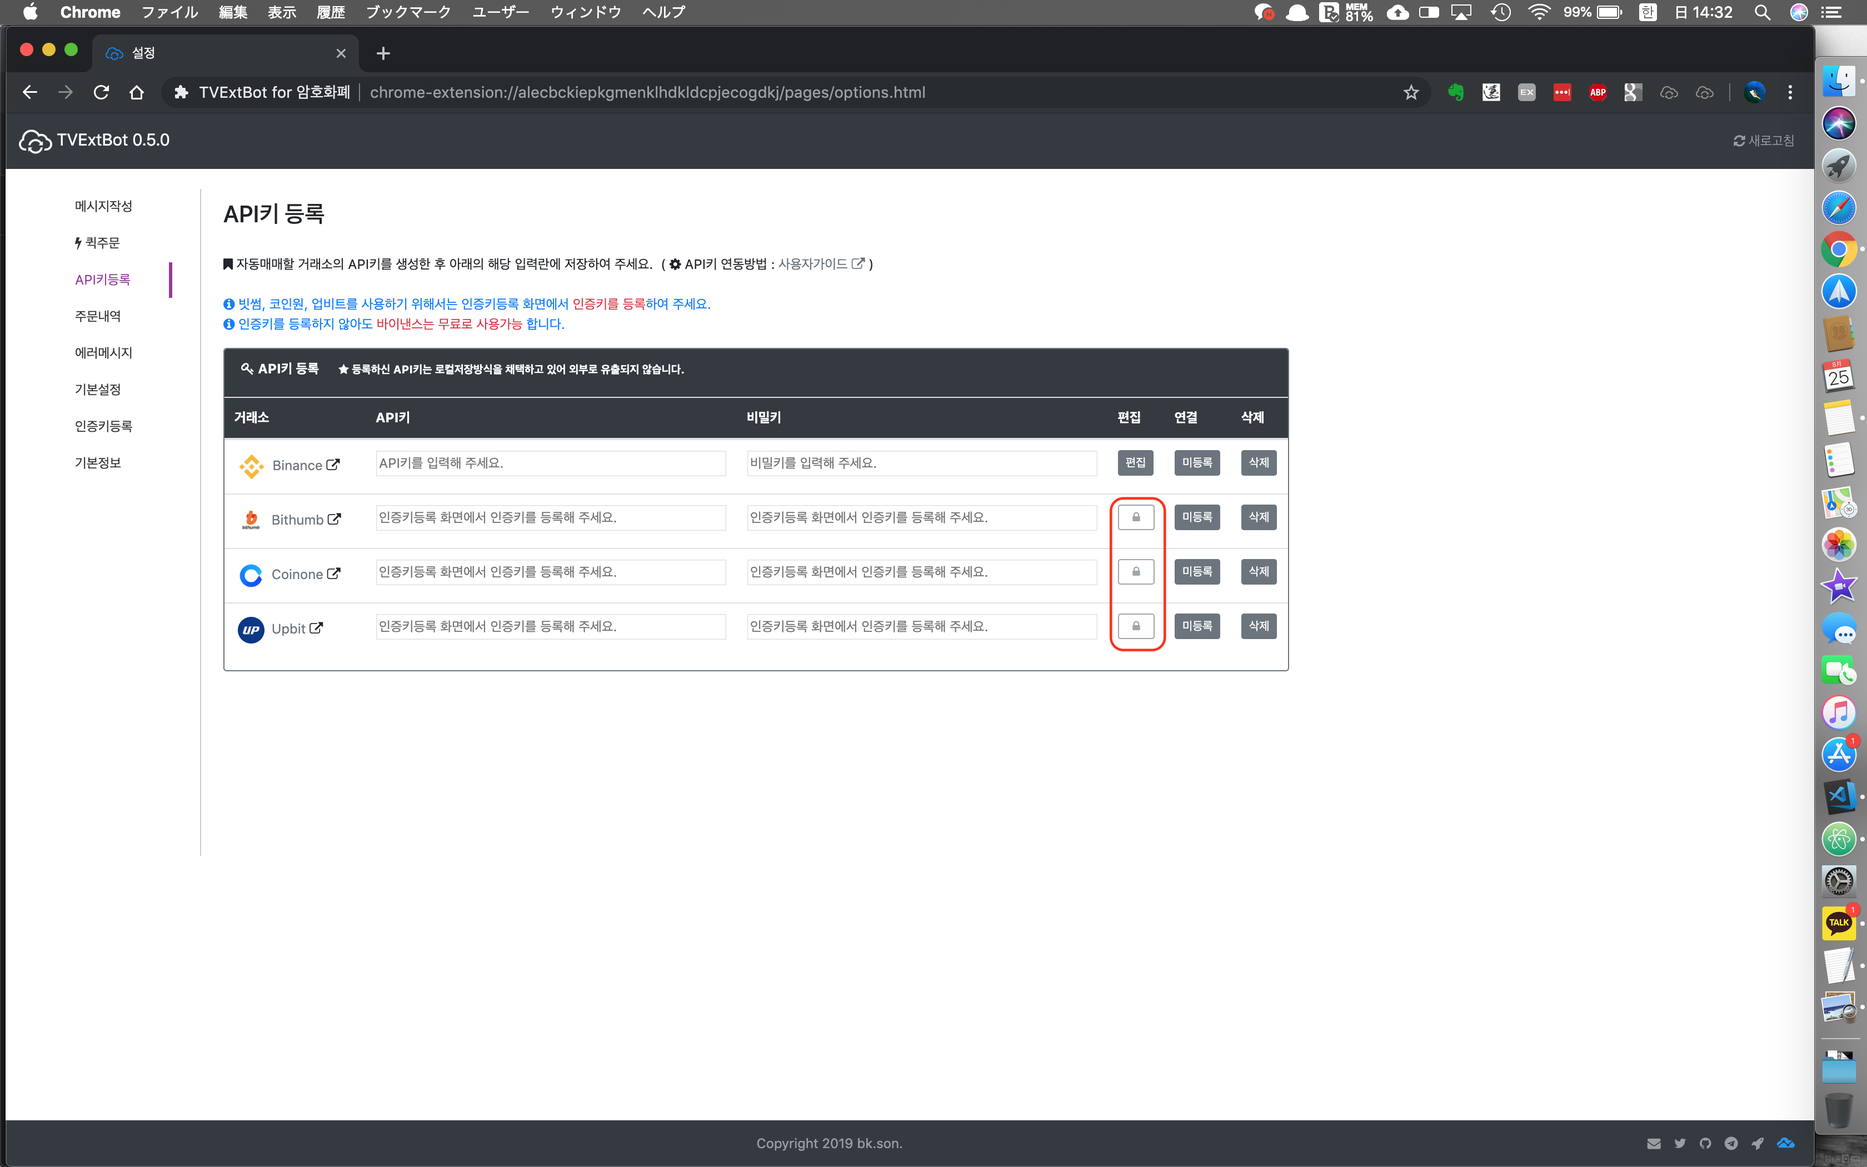
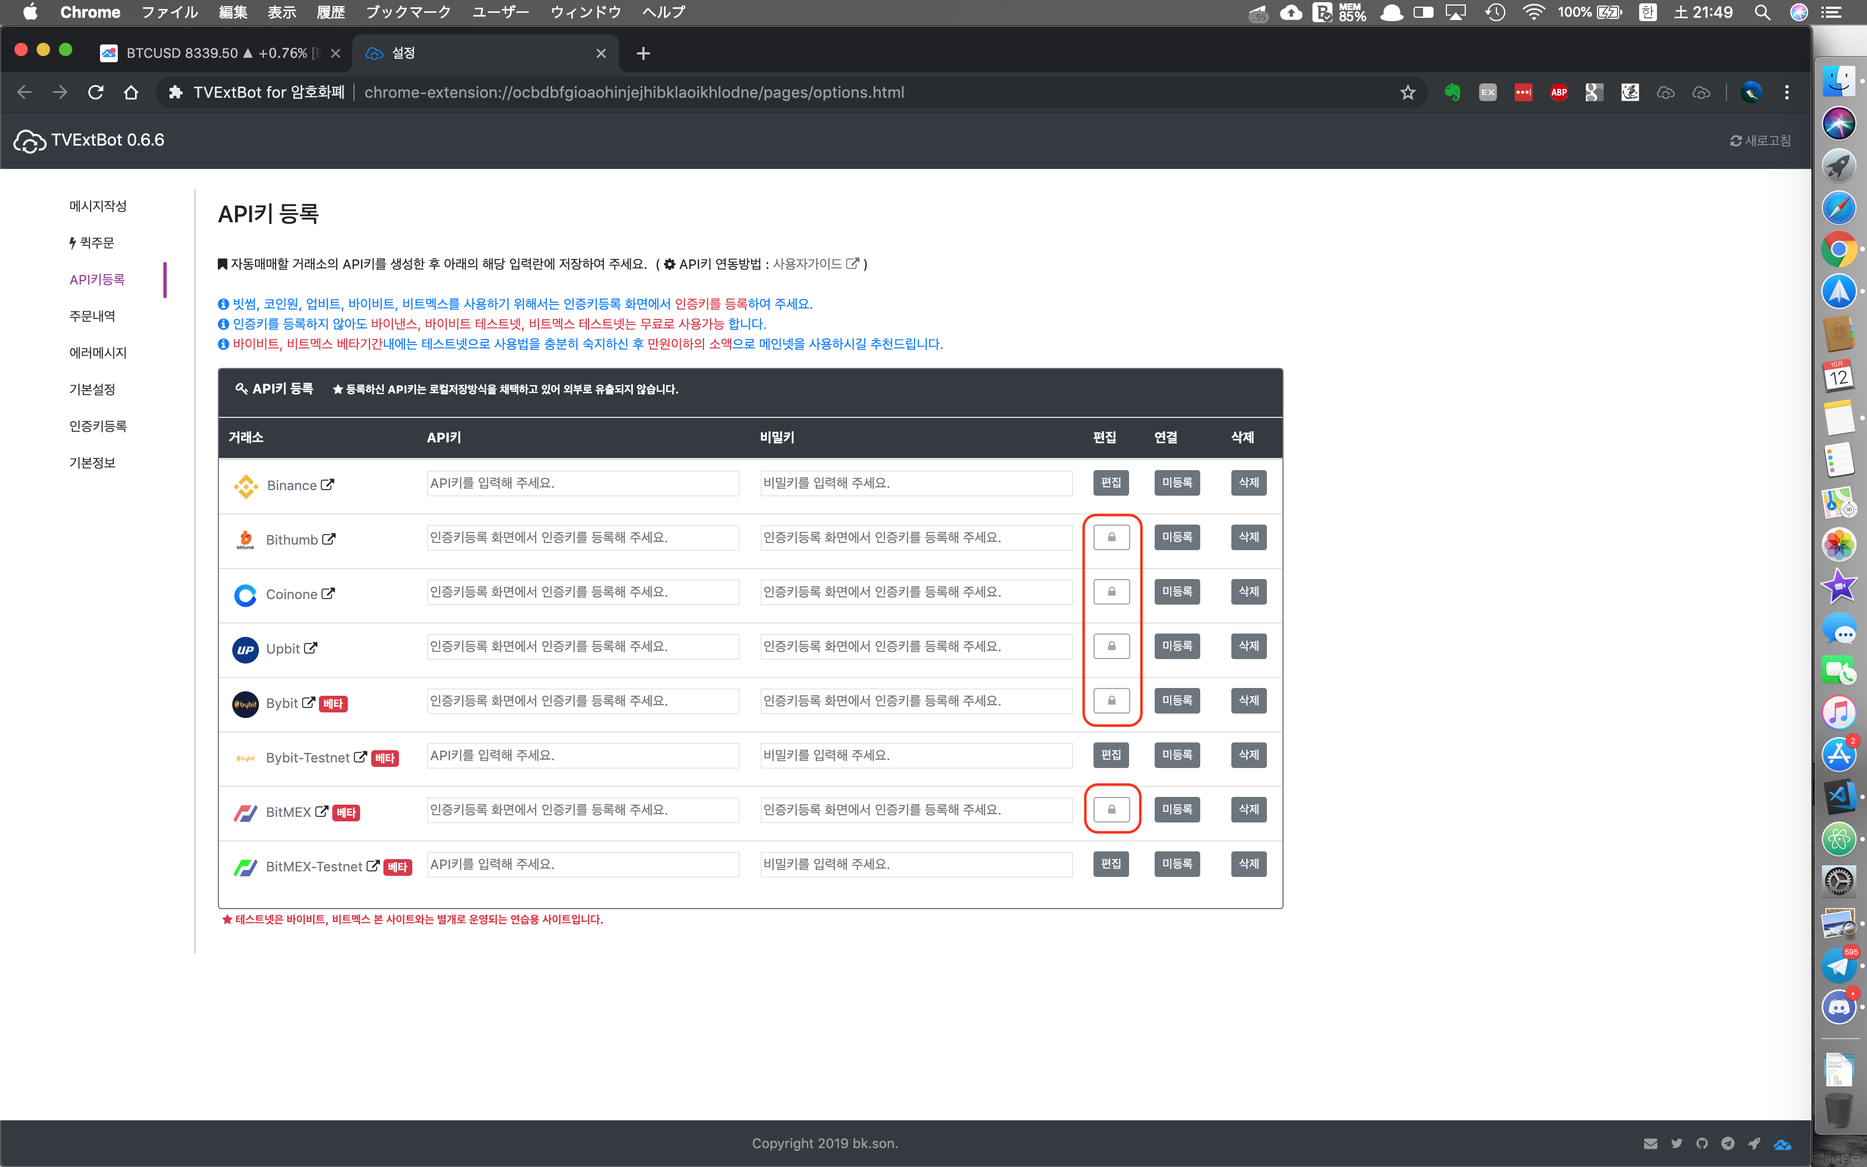
rebuilding site 2019年 10月12日 土曜日 22時46分11秒 JST

diff --git a/post/authguide/index.html b/post/authguide/index.html
@@ -10,12 +10,15 @@
   <title>인증키 등록&amp;구매가이드 - TVExtBot</title>
   <meta property="og:title" content="인증키 등록&amp;구매가이드" />
   <meta name="twitter:title" content="인증키 등록&amp;구매가이드" />
-  <meta name="description" content="TVExtBot가 9월1일부터 유료버젼으로 전환됩니다.
-바이낸스는 계속해서 무료로 사용가능하지만 그외 빗썸, 코인원, 업비트는 인증키를 등록하셔야지만 사용가능합니다.">
-  <meta property="og:description" content="TVExtBot가 9월1일부터 유료버젼으로 전환됩니다.
-바이낸스는 계속해서 무료로 사용가능하지만 그외 빗썸, 코인원, 업비트는 인증키를 등록하셔야지만 사용가능합니다.">
-  <meta name="twitter:description" content="TVExtBot가 9월1일부터 유료버젼으로 전환됩니다.
-바이낸스는 계속해서 무료로 사용가능하지만 그외 빗썸, 코인원, 업비트는 인증키를 등록하셔야지만 사용가능합니다.">
+  <meta name="description" content=" 빗썸, 코인원, 업비트, 바이비트, 비트멕스를 사용하기 위해서는 인증키등록 화면에서 인증키를 등록하여 주세요.
+ 인증키를 등록하지 않아도 바이낸스, 바이비트 테스트넷, 비트멕스 테스트넷는 무료로 사용가능 합니다.
+ 바이비트, 비트멕스 베타기간내에는 테스트넷으로 사용법을 충분히 숙지하신 후 소액으로 메인넷을 사용하시길 추천드립니다.">
+  <meta property="og:description" content=" 빗썸, 코인원, 업비트, 바이비트, 비트멕스를 사용하기 위해서는 인증키등록 화면에서 인증키를 등록하여 주세요.
+ 인증키를 등록하지 않아도 바이낸스, 바이비트 테스트넷, 비트멕스 테스트넷는 무료로 사용가능 합니다.
+ 바이비트, 비트멕스 베타기간내에는 테스트넷으로 사용법을 충분히 숙지하신 후 소액으로 메인넷을 사용하시길 추천드립니다.">
+  <meta name="twitter:description" content=" 빗썸, 코인원, 업비트, 바이비트, 비트멕스를 사용하기 위해서는 인증키등록 화면에서 인증키를 등록하여 주세요.
+ 인증키를 등록하지 않아도 바이낸스, 바이비트 테스트넷, 비트멕스 테스트넷는 무료로 사용가능 합니다.
+ 바이비트, 비트멕스 베타기간내에는 테스트넷으로 사용법을 충분히 숙지하신 후 소액으로 메인넷을 사용하시길 추천드립니다.">
   <meta name="author" content="bk.son"/><script type="application/ld+json">
 {
     "@context": "http://schema.org",
@@ -64,9 +67,9 @@
     "name" : "bk.son"
   },
   "headline": "인증키 등록\x26구매가이드",
-  "description" : "TVExtBot가 9월1일부터 유료버젼으로 전환됩니다.\n바이낸스는 계속해서 무료로 사용가능하지만 그외 빗썸, 코인원, 업비트는 인증키를 등록하셔야지만 사용가능합니다.\n",
+  "description" : " 빗썸, 코인원, 업비트, 바이비트, 비트멕스를 사용하기 위해서는 인증키등록 화면에서 인증키를 등록하여 주세요.\n 인증키를 등록하지 않아도 바이낸스, 바이비트 테스트넷, 비트멕스 테스트넷는 무료로 사용가능 합니다.\n 바이비트, 비트멕스 베타기간내에는 테스트넷으로 사용법을 충분히 숙지하신 후 소액으로 메인넷을 사용하시길 추천드립니다.\n",
   "inLanguage" : "ko",
-  "wordCount":  174 ,
+  "wordCount":  183 ,
   "datePublished" : "2019-08-25T14:02:56",
   "dateModified" : "2019-08-25T14:02:56",
   "image" : "https:\/\/tvextbot.github.io\/img\/avatar-icon.png",
@@ -86,15 +89,17 @@
 </script>
 
 <meta property="og:title" content="인증키 등록&amp;구매가이드" />
-<meta property="og:description" content="TVExtBot가 9월1일부터 유료버젼으로 전환됩니다.
-바이낸스는 계속해서 무료로 사용가능하지만 그외 빗썸, 코인원, 업비트는 인증키를 등록하셔야지만 사용가능합니다.">
+<meta property="og:description" content=" 빗썸, 코인원, 업비트, 바이비트, 비트멕스를 사용하기 위해서는 인증키등록 화면에서 인증키를 등록하여 주세요.
+ 인증키를 등록하지 않아도 바이낸스, 바이비트 테스트넷, 비트멕스 테스트넷는 무료로 사용가능 합니다.
+ 바이비트, 비트멕스 베타기간내에는 테스트넷으로 사용법을 충분히 숙지하신 후 소액으로 메인넷을 사용하시길 추천드립니다.">
 <meta property="og:image" content="https://tvextbot.github.io/img/avatar-icon.png" />
 <meta property="og:url" content="https://tvextbot.github.io/post/authguide/" />
 <meta property="og:type" content="website" />
 <meta property="og:site_name" content="TVExtBot" />
   <meta name="twitter:title" content="인증키 등록&amp;구매가이드" />
-  <meta name="twitter:description" content="TVExtBot가 9월1일부터 유료버젼으로 전환됩니다.
-바이낸스는 계속해서 무료로 사용가능하지만 그외 빗썸, 코인원, 업비트는 인증키를 등록하셔야지만 사용가능합니다.">
+  <meta name="twitter:description" content=" 빗썸, 코인원, 업비트, 바이비트, 비트멕스를 사용하기 위해서는 인증키등록 화면에서 인증키를 등록하여 주세요.
+ 인증키를 등록하지 않아도 바이낸스, 바이비트 테스트넷, 비트멕스 테스트넷는 무료로 사용가능 합니다.
+ 바이비트, 비트멕스 베타기간내에는 테스트넷으로 사용법을 충분히 숙지하신 후 소액으로 메인넷을 사용하시길 추천드립니다.">
   <meta name="twitter:image" content="https://tvextbot.github.io/img/avatar-icon.png" />
   <meta name="twitter:card" content="summary" />
   <meta name="twitter:site" content="@tvextbot" />
@@ -315,8 +320,9 @@ if (!doNotTrack) {
   <div class="row">
     <div class="col-lg-8 col-lg-offset-2 col-md-10 col-md-offset-1">
       <article role="main" class="blog-post">
-        <p><span class="text-danger h5">TVExtBot가 9월1일부터 유료버젼으로 전환됩니다.<br>
-바이낸스는 계속해서 무료로 사용가능하지만 그외 빗썸, 코인원, 업비트는 인증키를 등록하셔야지만 사용가능합니다.</span><br></p>
+        <p><span class="text-info"><i class="fa fa-info-circle"></i> 빗썸, 코인원, 업비트, 바이비트, 비트멕스를 사용하기 위해서는 인증키등록 화면에서 인증키를 등록하여 주세요.</span><br>
+<span class="text-info"><i class="fa fa-info-circle"></i> 인증키를 등록하지 않아도 바이낸스, 바이비트 테스트넷, 비트멕스 테스트넷는 무료로 사용가능 합니다.</span><br>
+<span class="text-info"><i class="fa fa-info-circle"></i> 바이비트, 비트멕스 베타기간내에는 테스트넷으로 사용법을 충분히 숙지하신 후 소액으로 메인넷을 사용하시길 추천드립니다.</span><br></p>
 
 <p>아래의 내용은 인증키를 구매하기 위한 송금방법에 대한 설명입니다.<br></p>
 
@@ -324,9 +330,9 @@ if (!doNotTrack) {
 
 
 <figure  itemprop="associatedMedia" itemscope itemtype="http://schema.org/ImageObject">
-    <a href="/img/num01.png"  itemprop="contentUrl"> 
+    <a href="/img/num1.png"  itemprop="contentUrl"> 
         <img itemprop="thumbnail"
-            src="/img/num01.png"
+            src="/img/num1.png"
             
             />
     </a>
@@ -339,16 +345,15 @@ if (!doNotTrack) {
 
 
 <figure  itemprop="associatedMedia" itemscope itemtype="http://schema.org/ImageObject">
-    <a href="/img/num02.png"  itemprop="contentUrl"> 
+    <a href="/img/num2.png"  itemprop="contentUrl"> 
         <img itemprop="thumbnail"
-            src="/img/num02.png"
+            src="/img/num2.png"
             
             />
     </a>
     
 </figure>
-[송금하기]버튼을 클릭하여 송금화면으로 이동해 주세요.<br>
-<span class="text-danger">※ 유료버젼 전환기간에 인증키를 받으신분에 한해서는 송금을 하지마시고 인증키를 등록해 주세요.</span></p>
+[송금하기]버튼을 클릭하여 송금화면으로 이동해 주세요.<br></p>
 
 <p>3.송금화면에 이메일을 입력 후 [Continue]버튼을 클릭합니다.
 
@@ -414,9 +419,9 @@ if (!doNotTrack) {
 
 
 <figure  itemprop="associatedMedia" itemscope itemtype="http://schema.org/ImageObject">
-    <a href="/img/num07.png"  itemprop="contentUrl"> 
+    <a href="/img/num7.png"  itemprop="contentUrl"> 
         <img itemprop="thumbnail"
-            src="/img/num07.png"
+            src="/img/num7.png"
             
             />
     </a>

diff --git a/post/first/index.html b/post/first/index.html
@@ -63,7 +63,7 @@
   "headline": "시작하기",
   "description" : "구글 크롬웹 스토어에서 TVExtBot를 자신의 크롬 브라우저에 추가한 후 아래의 설명을 참고하여 설정해 주세요.\n",
   "inLanguage" : "ko",
-  "wordCount":  535 ,
+  "wordCount":  560 ,
   "datePublished" : "2019-03-02T10:19:39",
   "dateModified" : "2019-03-02T10:19:39",
   "image" : "https:\/\/tvextbot.github.io\/img\/avatar-icon.png",
@@ -407,22 +407,23 @@ if (!doNotTrack) {
 
 
 <figure  itemprop="associatedMedia" itemscope itemtype="http://schema.org/ImageObject">
-    <a href="/img/link_option.png"  itemprop="contentUrl"> 
+    <a href="/img/link_option1.png"  itemprop="contentUrl"> 
         <img itemprop="thumbnail"
-            src="/img/link_option.png"
+            src="/img/link_option1.png"
             
             />
     </a>
     
-</figure></p>
+</figure>
+<span class="text-danger">(※ 유료거래소가 락을 해제하기 위해 인증키를 구입하세요.[<a class="text-muted" href="./authguide" target="_blank"><i class="fa fa-cog"></i> 인증키 등록&amp;구매가이드</a>])</span></p>
 
 <p>7.설정화면으로 이동하면 아래와 같이 설정화면내의 메시지작성화면을 확인할 수 있습니다.
 
 
 <figure  itemprop="associatedMedia" itemscope itemtype="http://schema.org/ImageObject">
-    <a href="/img/main_options.png"  itemprop="contentUrl"> 
+    <a href="/img/main_options1.png"  itemprop="contentUrl"> 
         <img itemprop="thumbnail"
-            src="/img/main_options.png"
+            src="/img/main_options1.png"
             
             />
     </a>
@@ -437,7 +438,11 @@ if (!doNotTrack) {
         <li>바이낸스</li>
         <li>빗썸</li>
         <li>코인원</li>
-        <li>업비트&nbsp;&nbsp;<span class="text-danger">※ 최신버젼(0.2.6이후)에서는 업비트 시장가 매매 가능!</span></li>
+        <li>업비트</li>
+        <li>바이비트(마진거래 가능)</li>
+        <li>바이비트 테스트넷(마진거래 가능)</li>
+        <li>비트멕스(마진거래 가능)</li>
+        <li>비트멕스 테스트넷(마진거래 가능)</li>
     </ul>
 </div>
 
@@ -457,7 +462,7 @@ if (!doNotTrack) {
 <p><br>
 <h5><span class="text-info"><i class="fa fa-bookmark"></i> 코인원 API키 발행하기</span><span class="text-danger"> (※ BTC송금은 절대 체크하지 마세요!)</span></h5></p>
 
-<div style="position: relative; padding-bottom: 56.25%;">
+<p><div style="position: relative; padding-bottom: 56.25%;">
   <iframe 
     style="position: absolute; top: 0; left: 0; width: 100%; height: 100%;" 
     src="https://www.youtube.com/embed/T3bMfjNgmkY" 
@@ -467,65 +472,82 @@ if (!doNotTrack) {
     allowfullscreen>
   </iframe>
 </div>
+<br></p>
 
-<p><br>
-8.API키 등록화면에서 [편집]버튼을 클릭 후 거래소의 API키와 비밀키를 입력하여 [저장]버튼을 클릭해 주세요.
+<p>8.API키 등록화면에서 [편집]버튼을 클릭 후 거래소의 API키와 비밀키를 입력하여 [저장]버튼을 클릭해 주세요.
 
 
 <figure  itemprop="associatedMedia" itemscope itemtype="http://schema.org/ImageObject">
-    <a href="/img/api_key.png"  itemprop="contentUrl"> 
+    <a href="/img/api_key1.png"  itemprop="contentUrl"> 
         <img itemprop="thumbnail"
-            src="/img/api_key.png"
+            src="/img/api_key1.png"
             
             />
     </a>
     
-</figure></p>
+</figure>
+<span class="text-danger">(※ 유료거래소가 락을 해제하기 위해 인증키를 구입하세요.[<a class="text-muted" href="./authguide" target="_blank"><i class="fa fa-cog"></i> 인증키 등록&amp;구매가이드</a>])</span><br><br></p>
 
 <p>9.거래소 연결에 성공하면 아래와 같은 연결성공 메시지와 함께 [연결중]버튼으로 바뀌는 것을 확인할 수 있습니다.<br>
 <span class="text-danger">(※ [연결중]으로 안 바뀌는 경우 API키가 제대로 입력되었는지 확인해주세요. )</span>
 
 
 <figure  itemprop="associatedMedia" itemscope itemtype="http://schema.org/ImageObject">
-    <a href="/img/success_apikey.png"  itemprop="contentUrl"> 
+    <a href="/img/success_apikey1.png"  itemprop="contentUrl"> 
         <img itemprop="thumbnail"
-            src="/img/success_apikey.png"
+            src="/img/success_apikey1.png"
             
             />
     </a>
     
-</figure></p>
+</figure>
+<br></p>
 
 <p>10.트레이딩뷰 사이트로 돌아와서 TVExtBot팝업화면에 해당거래소의 [연결중]메시지를 확인할 수 있습니다.<br>
 <span class="text-info">(※ 팝업화면은 트레이딩뷰 사이트에 반드시 로그인해야만 실행됩니다. )</span>
 
 
 <figure  itemprop="associatedMedia" itemscope itemtype="http://schema.org/ImageObject">
-    <a href="/img/popup.png"  itemprop="contentUrl"> 
+    <a href="/img/popup1.png"  itemprop="contentUrl"> 
         <img itemprop="thumbnail"
-            src="/img/popup.png"
+            src="/img/popup1.png"
             
             />
     </a>
     
-</figure></p>
+</figure>
+<br></p>
 
 <p>11.해당 거래소의 거래를 일시 중지하고 싶을때는 [연결중]버튼을 클릭하면 [연결중지]버튼으로 바뀌는것을 확인할 수 있습니다.
 
 
 <figure  itemprop="associatedMedia" itemscope itemtype="http://schema.org/ImageObject">
-    <a href="/img/stop_apikey.png"  itemprop="contentUrl"> 
+    <a href="/img/stop_apikey1.png"  itemprop="contentUrl"> 
         <img itemprop="thumbnail"
-            src="/img/stop_apikey.png"
+            src="/img/stop_apikey1.png"
             
             />
     </a>
     
-</figure></p>
+</figure>
+<br>
+
+
+<figure  itemprop="associatedMedia" itemscope itemtype="http://schema.org/ImageObject">
+    <a href="/img/popup_stop.png"  itemprop="contentUrl"> 
+        <img itemprop="thumbnail"
+            src="/img/popup_stop.png"
+            
+            />
+    </a>
+    
+</figure>
+<br></p>
 
 <h3 id="주문메시지-작성">주문메시지 작성</h3>
 
-<p>12.메시지 작성화면에서 트레이딩뷰의 얼러트에 설정할 주문 메시지를 작성합니다.<br>
+<p><br>
+12.메시지 작성화면에서 트레이딩뷰의 얼러트에 설정할 주문 메시지를 작성합니다.<br>
 <h5><span class="text-danger">※ 주문 메시지는 반드시 메시지 작성화면을 통해 작성하여 주세요!</span><span class="text-danger"></span></h5>
 <div id="alert" class="alert alert-info">
 <h6 class="alert-heading">예) 아래의 내용을 입력 (매수용 주문 메시지)</h6>
@@ -536,7 +558,7 @@ if (!doNotTrack) {
     <li>거래방법 : 매수</li>
     <li>주문유형 : 지정가</li>
     <li>주문가격 : LAST (마지막 체결가격)</li>
-    <li>퍼센트(%) : 입력 안함 &nbsp;&nbsp;&nbsp;&nbsp;<span class="text-danger">※ 입력을 안할 경우 마지막 체결가로 매수 주문</span></li>
+    <li>주문가격대비 퍼센트(%) : 입력 안함 &nbsp;&nbsp;&nbsp;&nbsp;<span class="text-danger">※ 입력을 안할 경우 마지막 체결가로 매수 주문</span></li>
     <li>주문수량(개수) : 1</li>
 </ul>
 </div></p>
@@ -545,9 +567,9 @@ if (!doNotTrack) {
 
 
 <figure  itemprop="associatedMedia" itemscope itemtype="http://schema.org/ImageObject">
-    <a href="/img/buy_message.png"  itemprop="contentUrl"> 
+    <a href="/img/buy_message1.png"  itemprop="contentUrl"> 
         <img itemprop="thumbnail"
-            src="/img/buy_message.png"
+            src="/img/buy_message1.png"
             
             />
     </a>
@@ -574,7 +596,7 @@ if (!doNotTrack) {
     <li>거래방법 : 매도</li>
     <li>주문유형 : 지정가</li>
     <li>주문가격 : LAST (마지막 체결가격)</li>
-    <li>퍼센트(%) : 입력 안함 &nbsp;&nbsp;&nbsp;&nbsp;<span class="text-danger">※ 입력을 안할 경우 마지막 체결가로 매도 주문</span></li>
+    <li>주문가격대비 퍼센트(%) : 입력 안함 &nbsp;&nbsp;&nbsp;&nbsp;<span class="text-danger">※ 입력을 안할 경우 마지막 체결가로 매도 주문</span></li>
     <li>주문수량(개수) : 1</li>
 </ul>
 </div>
@@ -583,9 +605,9 @@ if (!doNotTrack) {
 
 
 <figure  itemprop="associatedMedia" itemscope itemtype="http://schema.org/ImageObject">
-    <a href="/img/sell_message.png"  itemprop="contentUrl"> 
+    <a href="/img/sell_message1.png"  itemprop="contentUrl"> 
         <img itemprop="thumbnail"
-            src="/img/sell_message.png"
+            src="/img/sell_message1.png"
             
             />
     </a>

diff --git a/post/index.html b/post/index.html
@@ -286,8 +286,9 @@ if (!doNotTrack) {
               </p>
               <div class="post-entry">
                 
-                  <p><span class="text-danger h5">TVExtBot가 9월1일부터 유료버젼으로 전환됩니다.<br>
-바이낸스는 계속해서 무료로 사용가능하지만 그외 빗썸, 코인원, 업비트는 인증키를 등록하셔야지만 사용가능합니다.</span><br></p>
+                  <p><span class="text-info"><i class="fa fa-info-circle"></i> 빗썸, 코인원, 업비트, 바이비트, 비트멕스를 사용하기 위해서는 인증키등록 화면에서 인증키를 등록하여 주세요.</span><br>
+<span class="text-info"><i class="fa fa-info-circle"></i> 인증키를 등록하지 않아도 바이낸스, 바이비트 테스트넷, 비트멕스 테스트넷는 무료로 사용가능 합니다.</span><br>
+<span class="text-info"><i class="fa fa-info-circle"></i> 바이비트, 비트멕스 베타기간내에는 테스트넷으로 사용법을 충분히 숙지하신 후 소액으로 메인넷을 사용하시길 추천드립니다.</span><br></p>
                   <a href="https://tvextbot.github.io/post/authguide/" class="post-read-more">[자세히보기]</a>
                 
               </div>

diff --git a/index.html b/index.html
@@ -275,8 +275,9 @@ if (!doNotTrack) {
 
               <div class="post-entry">
                 
-                  <p><span class="text-danger h5">TVExtBot가 9월1일부터 유료버젼으로 전환됩니다.<br>
-바이낸스는 계속해서 무료로 사용가능하지만 그외 빗썸, 코인원, 업비트는 인증키를 등록하셔야지만 사용가능합니다.</span><br></p>
+                  <p><span class="text-info"><i class="fa fa-info-circle"></i> 빗썸, 코인원, 업비트, 바이비트, 비트멕스를 사용하기 위해서는 인증키등록 화면에서 인증키를 등록하여 주세요.</span><br>
+<span class="text-info"><i class="fa fa-info-circle"></i> 인증키를 등록하지 않아도 바이낸스, 바이비트 테스트넷, 비트멕스 테스트넷는 무료로 사용가능 합니다.</span><br>
+<span class="text-info"><i class="fa fa-info-circle"></i> 바이비트, 비트멕스 베타기간내에는 테스트넷으로 사용법을 충분히 숙지하신 후 소액으로 메인넷을 사용하시길 추천드립니다.</span><br></p>
                   <a href="https://tvextbot.github.io/post/authguide/" class="post-read-more">[자세히보기]</a>
                 
               </div>
